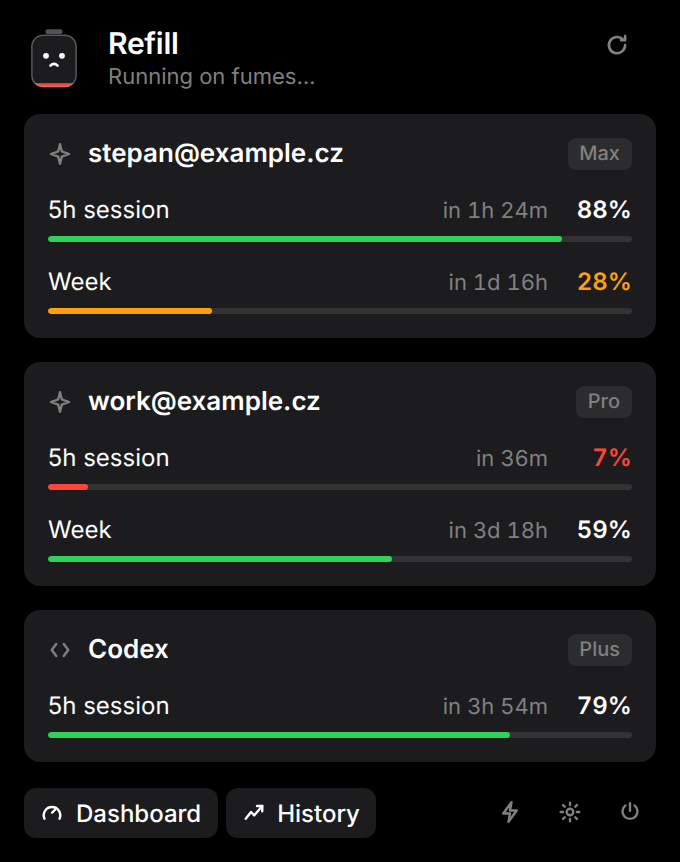
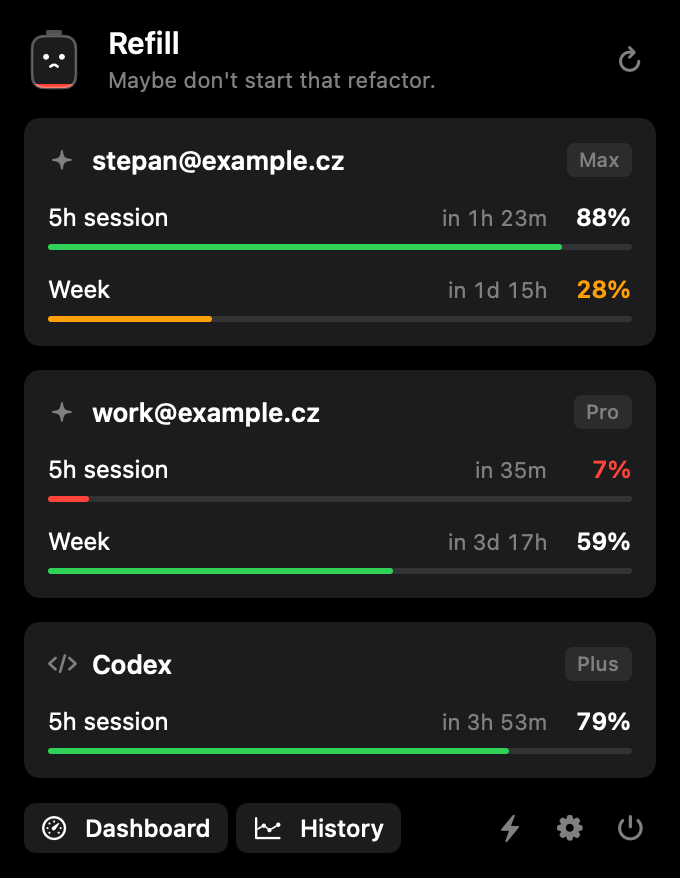
Brand switch that stays green in every window state; real app renders for marketing stills; plain provider descriptions

diff --git a/Sources/Refill/Components.swift b/Sources/Refill/Components.swift
@@ -61,7 +61,7 @@ struct ToggleRow: View {
 
     var body: some View {
         Row(title: title, subtitle: subtitle) {
-            Toggle("", isOn: $isOn).labelsHidden().toggleStyle(.switch).controlSize(.small).tint(Theme.accent)
+            Toggle("", isOn: $isOn).labelsHidden().toggleStyle(RefillSwitch())
         }
     }
 }
@@ -153,5 +153,35 @@ struct DarkMenu<T: Hashable>: View {
             .contentShape(Rectangle())
         }
         .menuStyle(.button).buttonStyle(.plain).menuIndicator(.hidden).fixedSize()
+    }
+}
+
+/// Brand switch: green when on, drawn by us so it looks the same in every window state.
+struct RefillSwitch: ToggleStyle {
+    func makeBody(configuration: Configuration) -> some View {
+        // Label (if any) on the left, like the system switch; labelsHidden() still hides it.
+        HStack(spacing: Space.s) {
+            configuration.label
+            Spacer(minLength: 0)
+            knob(configuration)
+        }
+    }
+
+    private func knob(_ configuration: Configuration) -> some View {
+        Button { configuration.isOn.toggle() } label: {
+            ZStack(alignment: configuration.isOn ? .trailing : .leading) {
+                Capsule().fill(configuration.isOn ? Theme.accent : Color.white.opacity(0.18))
+                    .frame(width: 34, height: 20)
+                Circle().fill(Color.white).frame(width: 16, height: 16).padding(2)
+                    .shadow(color: .black.opacity(0.25), radius: 1, y: 1)
+            }
+            .animation(.spring(response: 0.25, dampingFraction: 1), value: configuration.isOn)
+            .contentShape(Capsule())
+        }
+        .buttonStyle(.plain)
+        .accessibilityElement()
+        .accessibilityLabel(Text("Switch"))
+        .accessibilityValue(Text(configuration.isOn ? "On" : "Off"))
+        .accessibilityAddTraits(.isButton)
     }
 }

diff --git a/Sources/Refill/Providers/ExtraProviders.swift b/Sources/Refill/Providers/ExtraProviders.swift
@@ -10,13 +10,13 @@ enum ExtraProviders {
 
     static let entries: [Entry] = [
         Entry(key: "provider.copilot", name: "GitHub Copilot",
-              source: "Reads: `gh auth token` or ~/.config/github-copilot/apps.json",
+              source: "Uses your GitHub CLI login (gh auth login)",
               installed: { CopilotProvider.isInstalled }, fetch: { await CopilotProvider.fetch() }),
         Entry(key: "provider.cursor", name: "Cursor",
-              source: "Reads: Cursor app login in Application Support/Cursor state.vscdb",
+              source: "Uses the Cursor app you are signed in to",
               installed: { CursorProvider.isInstalled }, fetch: { await CursorProvider.fetch() }),
         Entry(key: "provider.gemini", name: "Gemini CLI",
-              source: "Reads: ~/.gemini/oauth_creds.json",
+              source: "Uses your Gemini CLI login",
               installed: { GeminiProvider.isInstalled }, fetch: { await GeminiProvider.fetch() }),
     ]
 

diff --git a/Sources/Refill/PreviewRender.swift b/Sources/Refill/PreviewRender.swift
@@ -36,7 +36,9 @@ enum PreviewRender {
 
     /// AppKit snapshot so real controls (toggles, menus) draw, unlike ImageRenderer.
     static func snap(_ v: some View, _ size: NSSize, _ path: String) {
-        let host = NSHostingView(rootView: v.tint(Theme.accent).preferredColorScheme(.dark).background(Color.black))
+        // Render as the key window so switches/tints draw active (green), not inactive gray.
+        let host = NSHostingView(rootView: v.tint(Theme.accent).preferredColorScheme(.dark)
+            .environment(\.controlActiveState, .key).background(Color.black))
         host.appearance = NSAppearance(named: .darkAqua)
         let win = NSWindow(contentRect: NSRect(origin: .zero, size: size), styleMask: [.borderless], backing: .buffered, defer: false)
         win.contentView = host

diff --git a/Sources/Refill/SettingsView.swift b/Sources/Refill/SettingsView.swift
@@ -87,7 +87,7 @@ struct GeneralTab: View {
                 DarkMenu(items: sounds.map { ($0, $0) }, selection: $soundName)
                     .onChange(of: soundName) { _, n in NSSound(named: NSSound.Name(n))?.play() }
                     .opacity(sound ? 1 : 0.4)
-                Toggle("", isOn: $sound).labelsHidden().toggleStyle(.switch).controlSize(.small).tint(Theme.accent)
+                Toggle("", isOn: $sound).labelsHidden().toggleStyle(RefillSwitch())
             }
             RowDivider()
             ToggleRow(title: "Notch", subtitle: "Drip slides out of the notch on events", isOn: $notch)

diff --git a/Sources/Refill/Onboarding/OnboardingSteps.swift b/Sources/Refill/Onboarding/OnboardingSteps.swift
@@ -108,7 +108,7 @@ struct NotificationsStep: View {
                     OBPill(label: granted == false ? "Denied: enable in System Settings" : "Allow notifications",
                            symbol: "bell.fill", prominent: granted == nil, action: request)
                 }
-                Toggle("Play a sound", isOn: $sound).toggleStyle(.switch).tint(Theme.lime)
+                Toggle("Play a sound", isOn: $sound).toggleStyle(RefillSwitch()).tint(Theme.lime)
                     .font(Theme.rounded(13, .medium)).frame(width: 190)
             }
         }

diff --git a/Sources/Refill/Onboarding/OnboardingSteps2.swift b/Sources/Refill/Onboarding/OnboardingSteps2.swift
@@ -83,7 +83,7 @@ struct DoneStep: View {
         StepFrame(mood: .party, title: "All topped up",
                   line: "I live in your menu bar now. Look for the little tank.") {
             Toggle("Launch Refill at login", isOn: Binding(get: { login }, set: { login = $0; LoginItem.set($0); login = LoginItem.isOn }))
-                .toggleStyle(.switch).tint(Theme.lime).font(Theme.rounded(14, .medium)).frame(width: 240)
+                .toggleStyle(RefillSwitch()).tint(Theme.lime).font(Theme.rounded(14, .medium)).frame(width: 240)
         }
     }
 }

diff --git a/Sources/Refill/IntegrationsView.swift b/Sources/Refill/IntegrationsView.swift
@@ -116,7 +116,7 @@ struct SinkEditor: View {
                 Label("Setup guide", systemImage: "book").font(.system(size: 12, weight: .medium))
             }
             .buttonStyle(DarkButton())
-            Toggle("", isOn: $sink.enabled).labelsHidden().toggleStyle(.switch).controlSize(.small).tint(Theme.accent)
+            Toggle("", isOn: $sink.enabled).labelsHidden().toggleStyle(RefillSwitch())
         }
 
         Panel(title: "Connection") {
